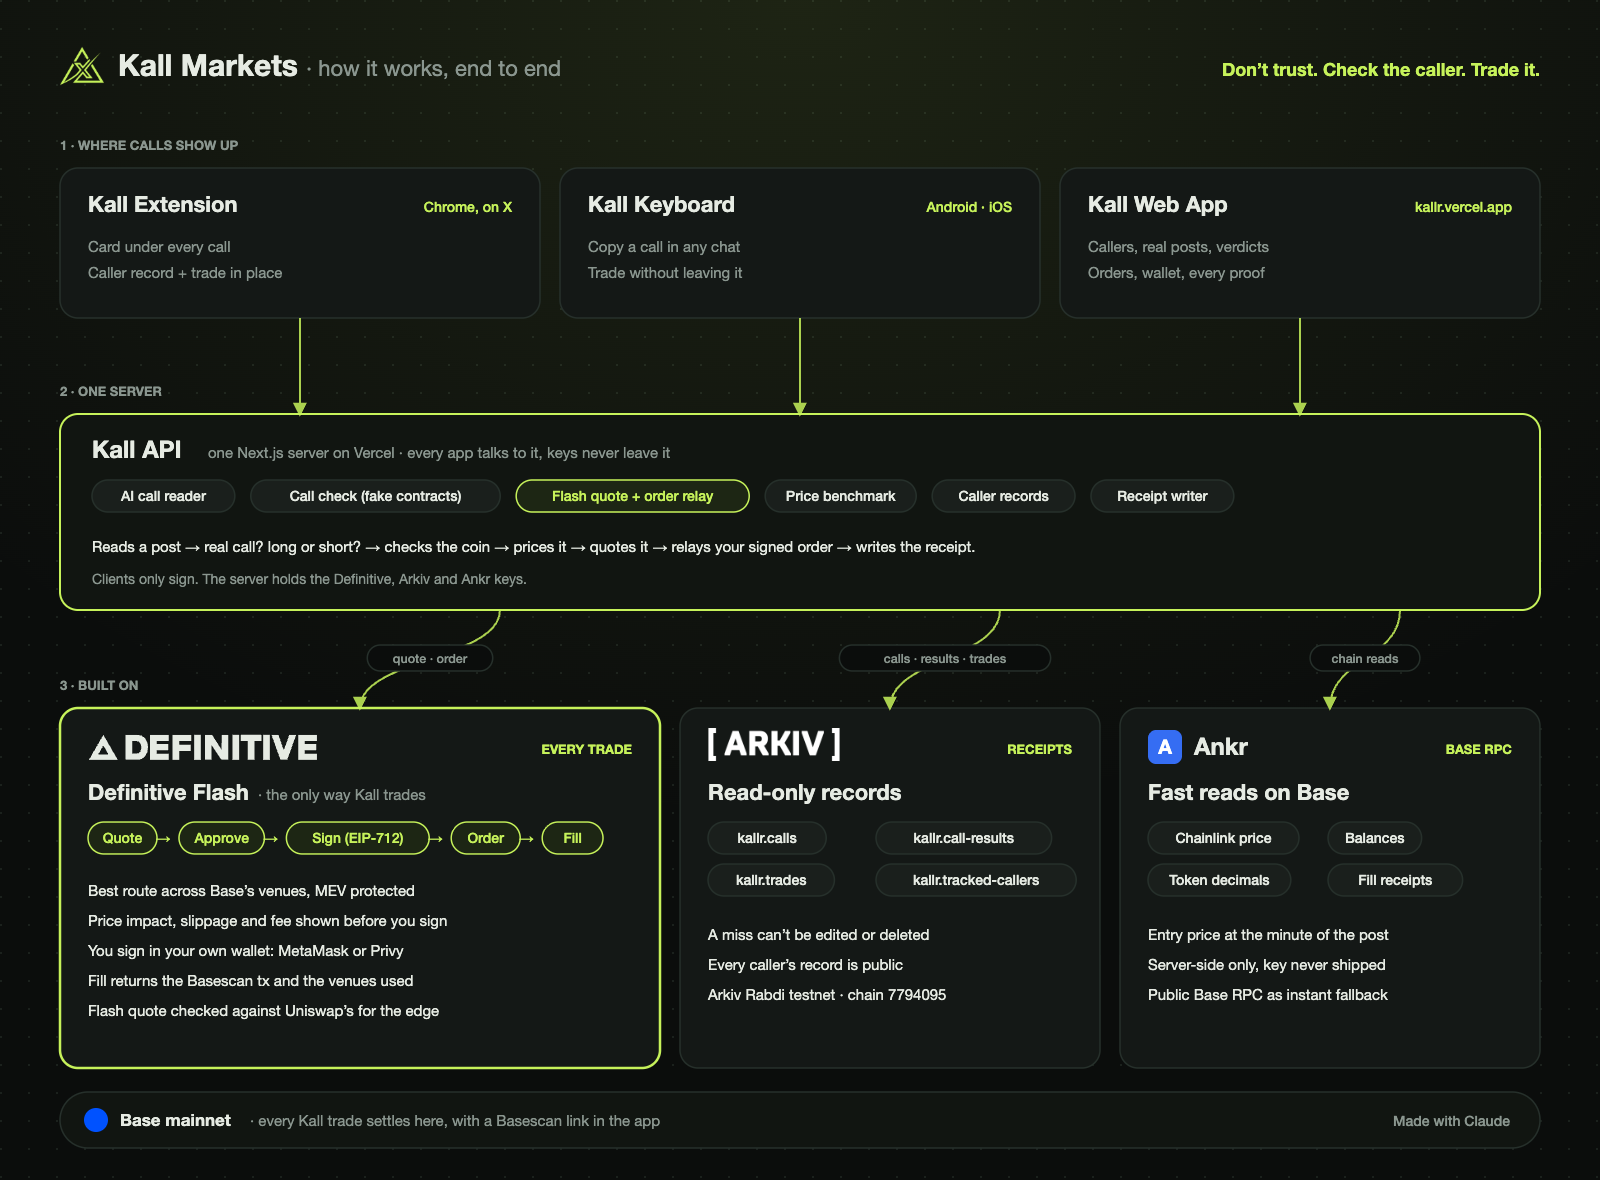
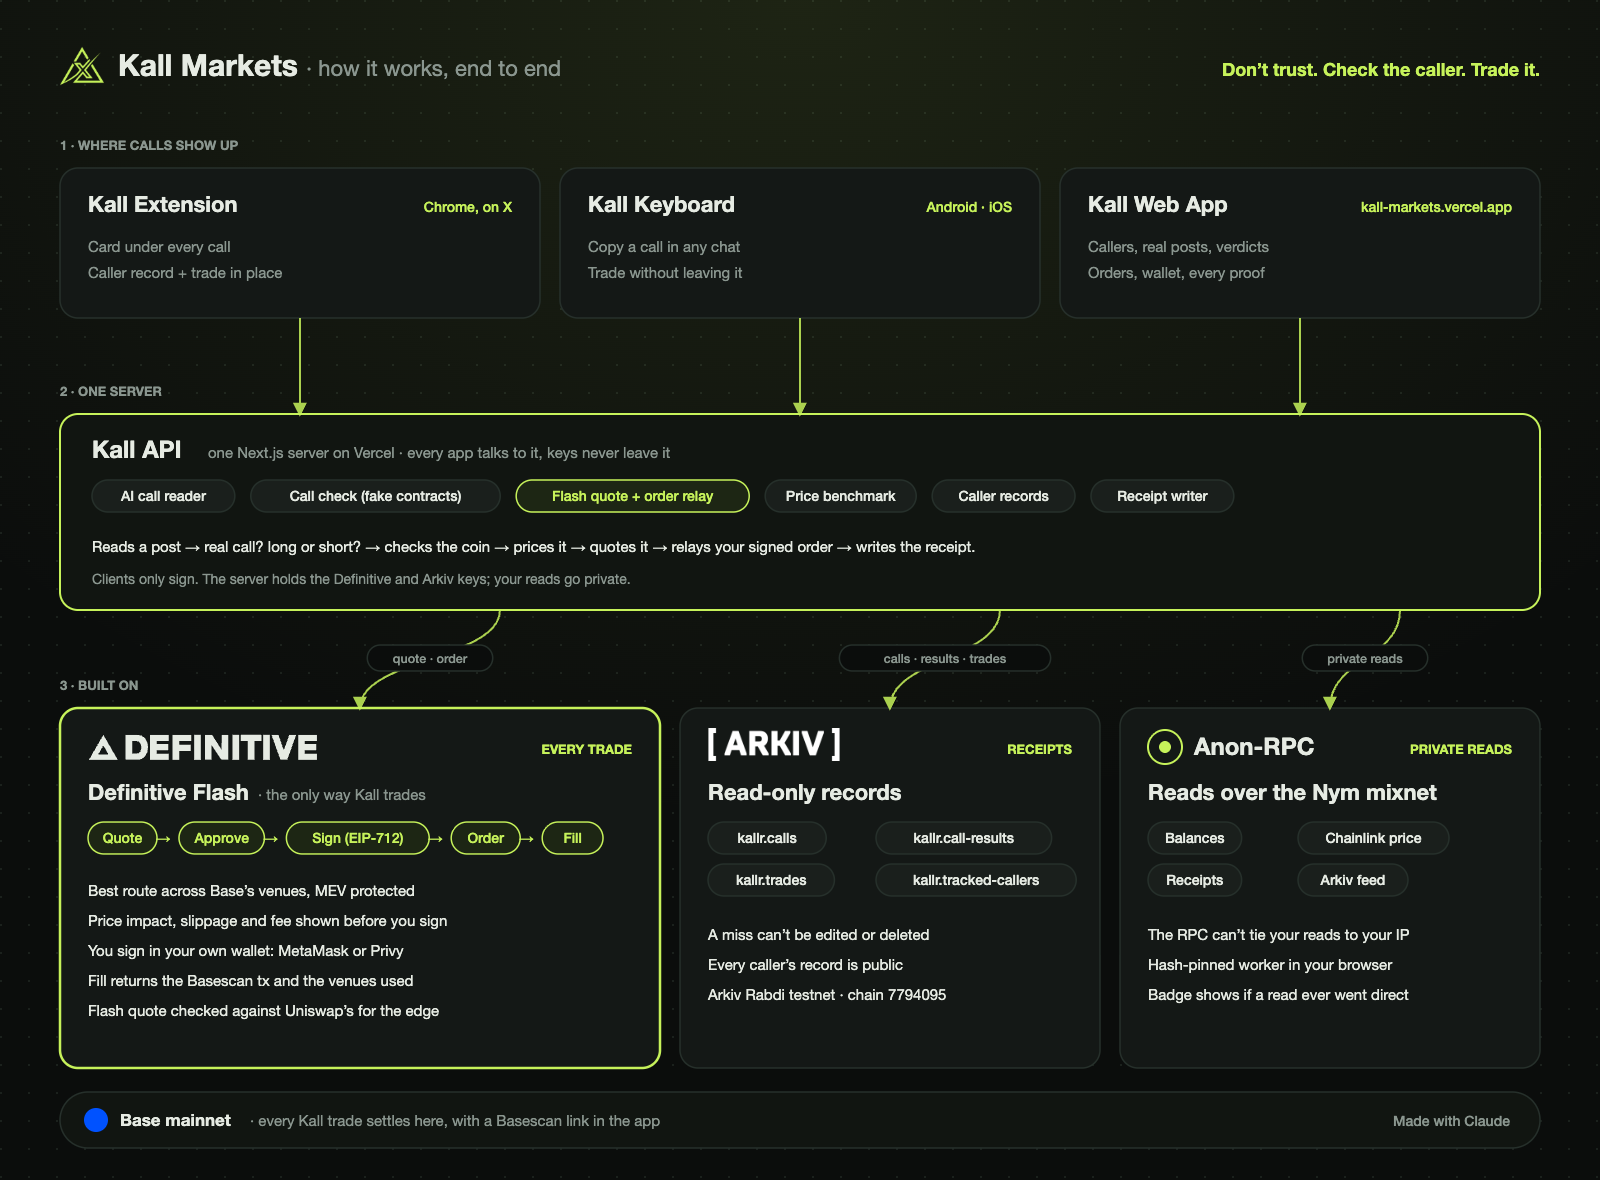
Architecture: Anon-RPC (Nym) replaces Ankr; Ankr RPC code removed

diff --git a/kallr-webapp/lib/chain.ts b/kallr-webapp/lib/chain.ts
@@ -1,4 +1,4 @@
-import { createPublicClient, erc20Abi, fallback, formatUnits, http, type Address } from "viem";
+import { createPublicClient, erc20Abi, formatUnits, http, type Address } from "viem";
 import { base } from "viem/chains";
 
 export const CHAIN = base;
@@ -7,17 +7,10 @@ export const CHAIN = base;
 export const USDC_BASE: Address = "0x833589fCD6eDb6E08f4c7C32D4f71b54bdA02913";
 export const USDC_DECIMALS = 6;
 
-/**
- * Base RPC. On the server, Ankr first (ANKR_API_KEY, never sent to the browser) with Base's public RPC as an
- * instant fallback; in the browser, the public RPC only.
- */
-export function baseTransport() {
-  const ankrKey = typeof window === "undefined" ? process.env.ANKR_API_KEY : undefined;
-  const pub = http(process.env.NEXT_PUBLIC_BASE_RPC_URL || undefined, { timeout: 4_000 });
-  return ankrKey ? fallback([http(`https://rpc.ankr.com/base/${ankrKey}`, { timeout: 2_500, retryCount: 0 }), pub]) : pub;
-}
-
-export const publicClient = createPublicClient({ chain: base, transport: baseTransport() });
+export const publicClient = createPublicClient({
+  chain: base,
+  transport: http(process.env.NEXT_PUBLIC_BASE_RPC_URL || undefined),
+});
 
 export type Balances = { eth: string; usdc: string };
 

diff --git a/kallr-webapp/lib/server/keyboard-wallet.ts b/kallr-webapp/lib/server/keyboard-wallet.ts
@@ -11,7 +11,6 @@ import {
 import { createPublicClient, createWalletClient, erc20Abi, type Hex, http, isHex } from "viem";
 import { privateKeyToAccount } from "viem/accounts";
 import { base } from "viem/chains";
-import { baseTransport } from "@/lib/chain";
 import { parseTypedData } from "@/lib/typed-data";
 import { flash } from "./flash";
 
@@ -30,7 +29,7 @@ export const MAX_ORDER_USD = Number(process.env.KALL_EXEC_MAX_USD ?? "25");
 const account = key && isHex(key) ? privateKeyToAccount(key) : null;
 export const keyboardWalletAddress: Hex | null = account?.address ?? null;
 
-const transport = process.env.BASE_RPC_URL ? http(process.env.BASE_RPC_URL) : baseTransport();
+const transport = http(process.env.BASE_RPC_URL ?? process.env.NEXT_PUBLIC_BASE_RPC_URL);
 const publicClient = createPublicClient({ chain: base, transport });
 const walletClient = account ? createWalletClient({ chain: base, transport, account }) : null;
 

diff --git a/README.md b/README.md
@@ -37,13 +37,13 @@ Built at ETHGlobal Mumbai 2026. Not financial advice.
 
 ## How it works
 
-<p align="center"><img src="docs/architecture.svg" alt="Kall Markets architecture: the extension, keyboard and web app talk to one server, which trades through Definitive Flash, keeps receipts on Arkiv and reads Base through Ankr." /></p>
+<p align="center"><img src="docs/architecture.svg" alt="Kall Markets architecture: the extension, keyboard and web app talk to one server, which trades through Definitive Flash, keeps receipts on Arkiv and reads Base privately through Anon-RPC." /></p>
 
 Three apps, one server, three rails:
 
 - **Definitive Flash: every trade.** Quote, approve, sign (EIP-712), order, fill. Flash finds the best route across Base's venues, shows impact, slippage and fee before you sign, and returns the Basescan transaction and venues after the fill.
 - **Arkiv: the receipts.** Calls, results, trades and the tracked-callers roster are read-only entities, so a miss can't be edited away.
-- **Ankr: Base RPC.** The server reads Chainlink prices, balances, token decimals and fill receipts through Ankr, with the public Base RPC as a fallback.
+- **Anon-RPC: private reads.** In the browser, balances, Chainlink prices, receipts and the Arkiv feed are read through a hash-pinned Anon-RPC worker over the Nym mixnet, so the RPC provider can't link them to your IP. If a read ever has to go direct, a badge says so.
 
 1. **Read.** A call is captured from X (extension) or a copied message (keyboard). The AI reader decides if it's a real call and its direction.
 2. **Check.** A coin named next to a contract that isn't that coin gets "Call check failed" and no trade.
@@ -70,7 +70,7 @@ flowchart LR
   end
 
   subgraph Proof["Receipts"]
-    CL["Ankr RPC → Chainlink on Base<br/>price at post time"]
+    CL["Chainlink on Base<br/>price at post time"]
     ARK["Arkiv<br/>calls · results · trades"]
     SW["Swarm<br/>post snapshot"]
   end
@@ -130,8 +130,7 @@ Environment (`kallr-webapp/.env.local`):
 | `NEXT_PUBLIC_PRIVY_APP_ID` | Sign-in and wallet on `/app` | `/app` shows a setup notice |
 | `DEFINITIVE_API_KEY` | Flash quotes and orders | Falls back to Definitive's public dev key |
 | `ETHERSCAN_API_KEY` | Caller wallet check | Wallet check reports unavailable; token checks still work |
-| `ANKR_API_KEY` | Server-side Base RPC through Ankr (Chainlink prices, balances, token reads, keyboard fills) | Falls back to the public Base RPC |
-| `NEXT_PUBLIC_BASE_RPC_URL` | Browser-side balances | Public Base RPC |
+| `NEXT_PUBLIC_BASE_RPC_URL` | Balances and Chainlink prices | Public Base RPC |
 | `ARKIV_PRIVATE_KEY`, `ARKIV_ACCESS_KEY` | Writing trades and calls to Arkiv (writer needs tGLM) | Nothing written to Arkiv |
 | `OPENAI_API_KEY` | Keyboard AI: reading calls and plain-word orders | Keyboard falls back to links and cashtags only |
 | `ELEVENLABS_API_KEY` | Keyboard voice orders (Scribe) | OpenAI transcription, if set |
